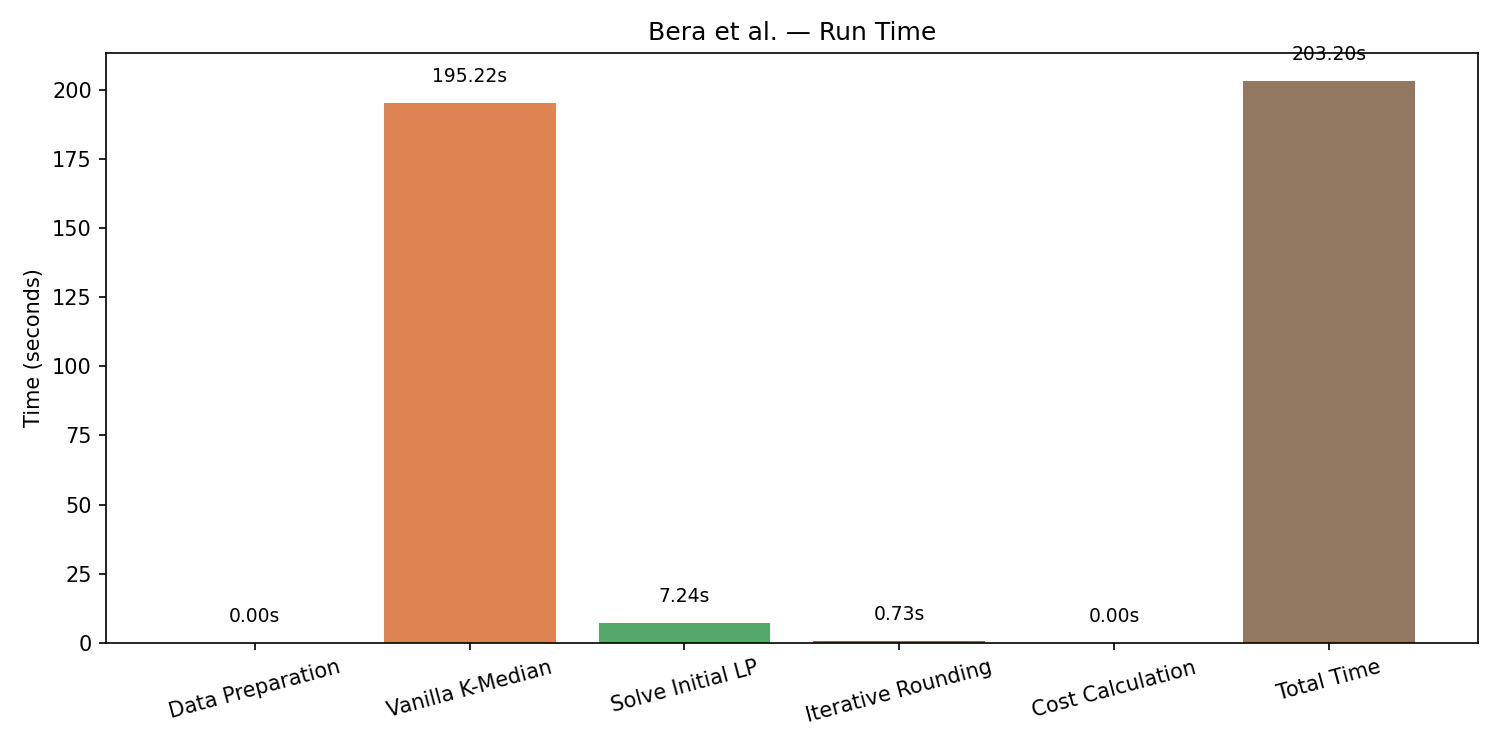
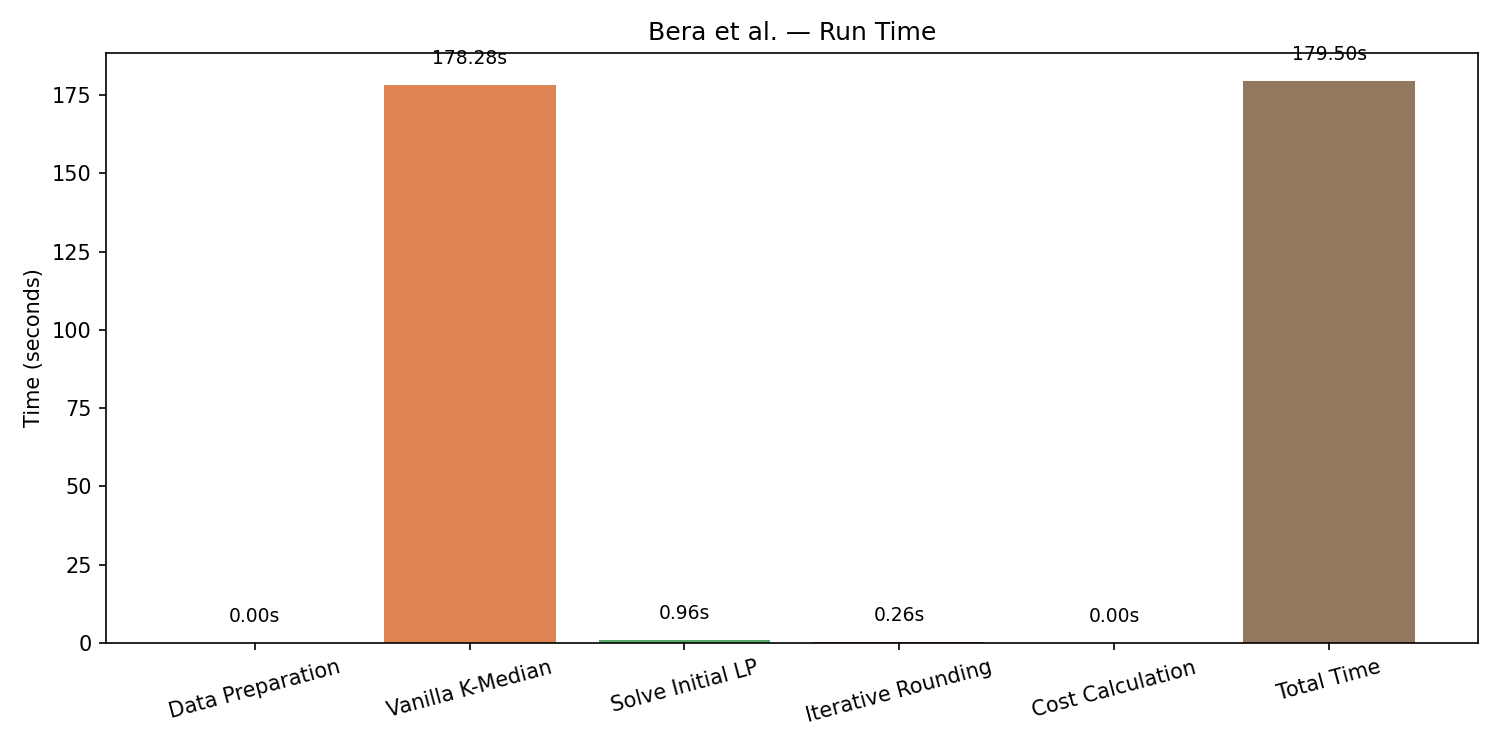
new problems:  - visulizations are not meaningful  - bercea has a bound problem

diff --git a/csv_loader.py b/csv_loader.py
@@ -4,6 +4,7 @@ import gc
 import time
 from pathlib import Path
 from typing import Optional, Sequence
+import polars as pl
 
 from sklearn.preprocessing import MinMaxScaler
 
@@ -18,12 +19,15 @@ LOAD_DTYPES = {
     "RAC1P": "Int16",
 }
 
+_POLARS_SCHEMA = {
+    "Longitude": pl.Float32, "Latitude": pl.Float32, "PINCP": pl.Float32,
+    "AGEP":      pl.Int16,   "SEX":      pl.Int8,    "RAC1P": pl.Int16,
+}
+
 
 def load_csv_chunked(
         csv_path: str,
         cols: Sequence[str] = LOAD_COLS,
-        dtypes: dict = LOAD_DTYPES,
-        chunk_size: int = 200_000,
         max_rows: Optional[int] = None,
         random_seed: Optional[int] = None,
 ) -> pd.DataFrame:
@@ -53,85 +57,23 @@ def load_csv_chunked(
     if not path.exists():
         raise FileNotFoundError(f"Dataset not found: {csv_path}")
 
-    do_random = (random_seed is not None) and (max_rows is not None)
-    rng = np.random.default_rng(random_seed) if do_random else None
-
-    reservoir: Optional[pd.DataFrame] = None
-    chunks: list[pd.DataFrame] = []   # used only in deterministic path
-    total_clean = 0
-    t0 = time.time()
-
-    reader = pd.read_csv(
-        csv_path,
-        usecols=cols,
-        dtype=dtypes,
-        chunksize=chunk_size,
-        engine="c",
+    schema = {c: _POLARS_SCHEMA[c] for c in cols if c in _POLARS_SCHEMA}
+    lf = (
+        pl.scan_csv(csv_path, schema_overrides=schema)
+        .select(list(cols))
+        .drop_nulls()
     )
 
-    for i, chunk in enumerate(reader):
-        # ---- clean -------------------------------------------------------
-        chunk = chunk.dropna(subset=cols)
-        if "Longitude" in chunk.columns:
-            chunk = chunk[(chunk["Longitude"] >= -180) & (chunk["Longitude"] <= 180)]
-        if "Latitude" in chunk.columns:
-            chunk = chunk[(chunk["Latitude"] >= -90)  & (chunk["Latitude"] <= 90)]
-        if "PINCP" in chunk.columns:
-            chunk = chunk[chunk["PINCP"] >= 0]
-        if len(chunk) == 0:
-            continue
+    df_pl = lf.collect()
+    total_clean = len(df_pl)
 
-        total_clean += len(chunk)
-
-        # ---- random reservoir sampling -----------------------------------
-        if do_random:
-            chunk = chunk.copy()                        # avoid SettingWithCopyWarning
-            chunk["_w"] = rng.random(size=len(chunk))  # uniform weight per row
-            if reservoir is None:
-                reservoir = chunk
-            else:
-                reservoir = pd.concat([reservoir, chunk], ignore_index=True)
-            if len(reservoir) > max_rows:
-                reservoir = reservoir.nsmallest(max_rows, "_w")
-
-        # ---- deterministic path: take first max_rows rows ----------------
-        else:
-            if max_rows is not None:
-                remaining = max_rows - sum(len(c) for c in chunks)
-                if remaining <= 0:
-                    break
-                if len(chunk) > remaining:
-                    chunk = chunk.iloc[:remaining]
-            chunks.append(chunk)
-
-        print(
-            f"  Chunk {i+1:>3}: {total_clean:>10,} clean rows  ({time.time()-t0:.1f}s)",
-            end="\r",
-        )
-
-    print(f"\n  Done: {total_clean:,} clean rows in {time.time()-t0:.1f}s")
-
-    # ---- assemble result -------------------------------------------------
-    if do_random:
-        if reservoir is None:
-            return pd.DataFrame(columns=list(cols))
-        df = reservoir.drop(columns=["_w"])
-        # Shuffle to remove the weight-sorted order nsmallest leaves behind
-        df = df.sample(frac=1.0, random_state=int(rng.integers(2**31))).reset_index(drop=True)
-    else:
-        if not chunks:
-            return pd.DataFrame(columns=list(cols))
-        df = pd.concat(chunks, ignore_index=True)
-        del chunks
-        gc.collect()
-
-    print(f"  Final sample: {len(df):,} rows")
+    rng = np.random.default_rng(random_seed)
+    weights = rng.random(total_clean)
+    idx = np.argpartition(weights, max_rows)[:max_rows]
+    idx = idx[np.argsort(weights[idx])]
+    df_pl = df_pl[rng.permutation(idx)]
+    df = df_pl.to_pandas()
     return df
-
-
-
-
-
 
 
 def preprocess_dataset(df: pd.DataFrame):
@@ -146,10 +88,10 @@ def preprocess_dataset(df: pd.DataFrame):
 
     print("Generating unique 'groups' for intersectional fairness...")
     df_core['GROUP_ID'] = (
-        ##df_core['RAC1P'].astype(str) + "_"# +
-        ##df_core['SEX'].astype(str) + "_" +
-            df_core['AGE_BIN'].astype(str) + "_"  # +
-        ##df_core['INC_BIN'].astype(str)
+        #df_core['RAC1P'].astype(str) + "_"# +
+        #df_core['SEX'].astype(str) + "_" +
+        #df_core['AGE_BIN'].astype(str) + "_"  # +
+        df_core['INC_BIN'].astype(str)
     )
 
     print("3. Extracting and scaling spatial coordinates...")

diff --git a/runner.py b/runner.py
@@ -17,7 +17,7 @@ class TrialOutput(NamedTuple):
     timing: dict[str, float]
 
 
-def run_trials(chunk_size, max_rows, algorithm_fn: Callable[..., Any],
+def run_trials(max_rows, algorithm_fn: Callable[..., Any],
                 result_builder: Callable[[Any, int], TrialOutput], n_runs: int, **kwargs):
 
     fair_costs: list[float] = []
@@ -34,12 +34,14 @@ def run_trials(chunk_size, max_rows, algorithm_fn: Callable[..., Any],
         df = csv_loader.load_csv_chunked(
             "us_census_puma_data.csv",
             csv_loader.LOAD_COLS,
-            csv_loader.LOAD_DTYPES,
-            chunk_size=chunk_size,
             max_rows=max_rows,
             random_seed=seed
         )
+        print(f"DEBUG: Shape after load_csv_chunked: {df.shape}")
 
+        # If df is empty here, the problem is in load_csv_chunked or the CSV file itself.
+        if df.empty:
+            raise ValueError("Dataframe is empty immediately after loading. Check your CSV and load_csv_chunked logic.")
         df = csv_loader.preprocess_dataset(df)
 
         raw = algorithm_fn(df, random_seed=seed, **kwargs)
@@ -308,29 +310,55 @@ def build_boehm_result(raw) -> TrialOutput:
 
 if __name__ == "__main__":
 
-    CHUNK_SIZE = 10_00
-    ROW_SIZE = 10_00
+    ROW_SIZE = 10_000
 
     FEATURE_COLS = ["Lat_Scaled", "Lon_Scaled"]
     PROTECTED_COL = "GROUP_ID"
-    K = 4
+    K = 10
     N_RUNS = 5
+    ALPHA = 0.05
 
+    #print("\n" + "="*60)
+    #print("  RUNNING BÖHM ET AL. (Exact Balance / Assignment)")
+    #print("="*60)
+    #boehm_result, boehm_summary = run_trials(
+    #    max_rows=ROW_SIZE,
+    #    algorithm_fn=boehm_fc,
+    #    result_builder=build_boehm_result,
+    #    n_runs=N_RUNS,
+    #    # Böhm specific kwargs:
+    #    feature_cols=FEATURE_COLS,
+    #    protected_group_col=PROTECTED_COL,
+    #    k=K,
+    #    kmedian_trials=3,
+    #    kmedian_max_iter=30
+    #)
 
-    print("\n" + "="*60)
-    print("  RUNNING BÖHM ET AL. (Exact Balance / Assignment)")
-    print("="*60)
-    boehm_result, boehm_summary = run_trials(
-        chunk_size=CHUNK_SIZE,
+    print("  RUNNING BERCEA ET AL. (Proportional Bounds)")
+    print("=" * 60)
+    bera_result, bera_summary = run_trials(
         max_rows=ROW_SIZE,
-        algorithm_fn=boehm_fc,
-        result_builder=build_boehm_result,
+        algorithm_fn=bera_fc,
+        result_builder=build_bera_result,
         n_runs=N_RUNS,
-        # Böhm specific kwargs:
+        # Bera specific kwargs:
         feature_cols=FEATURE_COLS,
         protected_group_col=PROTECTED_COL,
-        k=K,
-        kmedian_trials=3,
-        kmedian_max_iter=30
-        # Note: No alpha or weight_col for Böhm
+        k_centers=K,
+        alpha=ALPHA,
+        weight_col=None
     )
+
+    #print("  RUNNING BERA ET AL. (Iterative Rounding)")
+    #print("=" * 60)
+    #bercea_result, bercea_summary = run_trials(
+    #    algorithm_fn=bercea_fc,
+    #    result_builder=build_bercea_result,
+    #    n_runs=N_RUNS,
+    #    # Bercea specific kwargs:
+    #    feature_cols=FEATURE_COLS,
+    #    protected_group_col=PROTECTED_COL,
+    #    k_cluster=K,
+    #    alpha=ALPHA,
+    #    weight_col=None
+    #)

diff --git a/algorithms/main_bera_fair_clustering.py b/algorithms/main_bera_fair_clustering.py
@@ -77,7 +77,7 @@ def solve_fair_lp(
         A_eq=a_equality.tocsc(),
         b_eq=b_equality,
         bounds=[(0.0, 1.0)] * n_vars,
-        method='highs',
+        method='highs-ds',
         options={'disp': False, 'presolve': True},
     )
 
@@ -162,8 +162,8 @@ def iterative_rounding(
                 if not fair_active[group_code_idx, col]:
                     continue
                 group_weighted_mass_col = group_weighted_mass[group_code_idx, col]
-                low = max(0.0, np.floor(group_weighted_mass_col + 1e-9))
-                high = np.ceil(group_weighted_mass_col - 1e-9)
+                low = max(0.0, np.floor(group_weighted_mass_col - 1))
+                high = np.ceil(group_weighted_mass_col + 1)
                 coeffs = {
                     quick_lookup_idx[(nr_unassigned_idx, col)]: weights[still_unassigned[nr_unassigned_idx]]
                     for nr_unassigned_idx in range(nr_unassigned) if group_codes[still_unassigned[nr_unassigned_idx]] == group_code_idx
@@ -380,9 +380,8 @@ if __name__ == "__main__":
     df = csv_loader.load_csv_chunked(
         "../us_census_puma_data.csv",
         csv_loader.LOAD_COLS,
-        csv_loader.LOAD_DTYPES,
-        chunk_size=50_000,
-        max_rows=50_000,
+        max_rows=10_000,
+        random_seed=42
     )
     ##coreset_df = compute_fair_coreset(df_raw, n_locations=300, random_seed=42)
 
@@ -411,7 +410,7 @@ if __name__ == "__main__":
 
     FEATURE_COLS  = ["Lat_Scaled", "Lon_Scaled"]
     PROTECTED_COL = "GROUP_ID"
-    K             = 4
+    K             = 5
     ALPHA         = 0.02
 
     (unfair_centers, unfair_labels, unfair_cost,
@@ -453,13 +452,13 @@ if __name__ == "__main__":
 
     summary = evaluate(fair_result, unfair_result=unfair_result)
 
-    #udit_fairness_proportional(fair_result, lower_bounds, upper_bounds)
+    audit_fairness_proportional(fair_result, lower_bounds, upper_bounds)
 
     plot_execution_times(fair_result, timing, title="Bera et al. — Run Time")
-    #plot_spatial_clusters(preprocessed_df, fair_result,
-    #                      feature_cols=FEATURE_COLS, group_col=PROTECTED_COL,
-    #                      weight_col=None)
-    #plot_cluster_pof(fair_result, [summary])
-    #plot_pof_comparison(fair_result, [summary])
-    #plot_group_pof(fair_result, [summary])
-    #plot_cost_breakdown(fair_result, [summary])
+    plot_spatial_clusters(preprocessed_df, fair_result,
+                          feature_cols=FEATURE_COLS, group_col=PROTECTED_COL,
+                          weight_col=None)
+    plot_cluster_pof(fair_result, [summary])
+    plot_pof_comparison(fair_result, [summary])
+    plot_group_pof(fair_result, [summary])
+    plot_cost_breakdown(fair_result, [summary])

diff --git a/algorithms/main_boehm_fair_clustering.py b/algorithms/main_boehm_fair_clustering.py
@@ -183,8 +183,6 @@ if __name__ == "__main__":
     df = csv_loader.load_csv_chunked(
         "../us_census_puma_data.csv",
         csv_loader.LOAD_COLS,
-        csv_loader.LOAD_DTYPES,
-        chunk_size=10_000,
         max_rows=10_000,
     )
 
